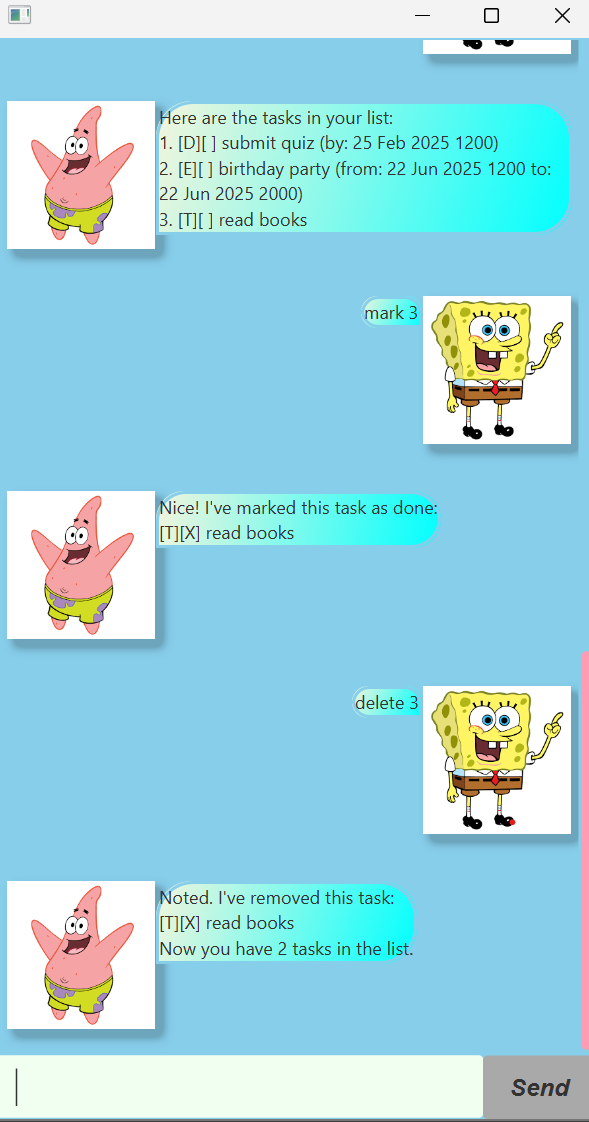
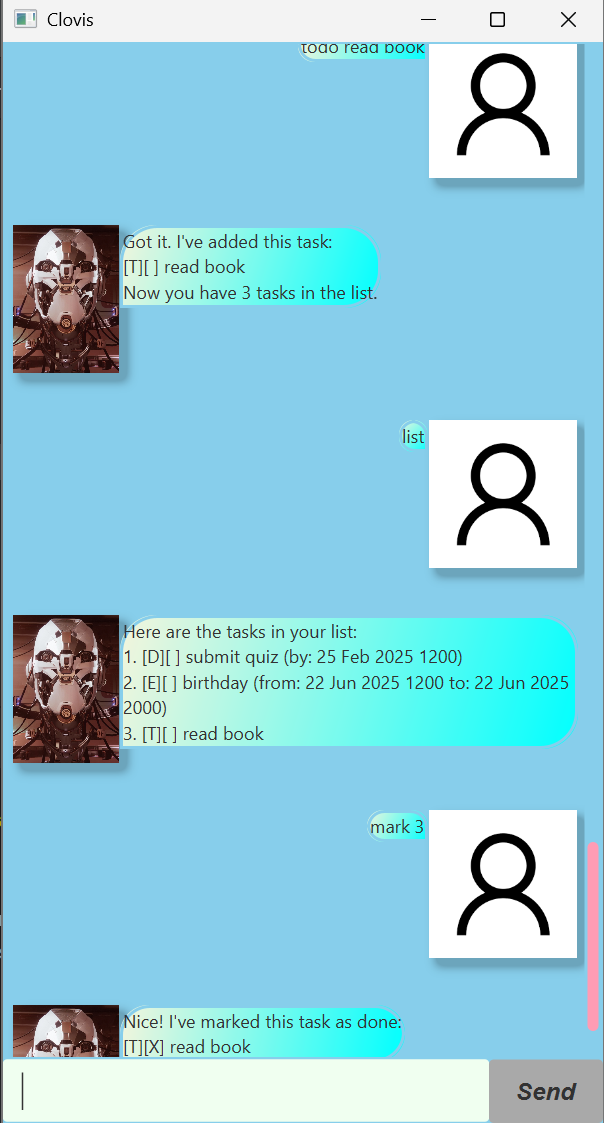
Add user guide, reupload Ui.png

diff --git a/src/main/java/clovis/gui/MainWindow.java b/src/main/java/clovis/gui/MainWindow.java
@@ -25,8 +25,8 @@ public class MainWindow extends AnchorPane {
 
     private Clovis clovis;
 
-    private Image userImage = new Image(this.getClass().getResourceAsStream("/images/patrick.png"));
-    private Image clovisImage = new Image(this.getClass().getResourceAsStream("/images/spongebob.png"));
+    private Image userImage = new Image(this.getClass().getResourceAsStream("/images/User.png"));
+    private Image clovisImage = new Image(this.getClass().getResourceAsStream("/images/ClovisBrayAI.png"));
 
     /**
      * Initializes the GUI and display the welcome message.

diff --git a/src/main/java/clovis/gui/Main.java b/src/main/java/clovis/gui/Main.java
@@ -22,9 +22,11 @@ public class Main extends Application {
             FXMLLoader fxmlLoader = new FXMLLoader(Main.class.getResource("/view/MainWindow.fxml"));
             AnchorPane ap = fxmlLoader.load();
             Scene scene = new Scene(ap);
+            stage.setTitle("Clovis");
             stage.setScene(scene);
             fxmlLoader.<MainWindow>getController().setClovis(clovis);
             stage.show();
+
         } catch (IOException e) {
             e.printStackTrace();
         }

diff --git a/src/main/java/clovis/task/Event.java b/src/main/java/clovis/task/Event.java
@@ -73,7 +73,7 @@ public class Event extends Task {
      *     description, start date and time, and end date and time.
      */
     public String toFileFormat() {
-        return "D | " + (isDone ? "1" : "0") + " | " + description + " | "
+        return "E | " + (isDone ? "1" : "0") + " | " + description + " | "
                 + start.format(OUTPUT_FORMAT) + " | " + end.format(OUTPUT_FORMAT);
     }
 

diff --git a/docs/README.md b/docs/README.md
@@ -1,30 +1,124 @@
-# Duke User Guide
-
-// Update the title above to match the actual product name
+# Clovis User Guide
 
 // Product screenshot goes here
 
-// Product intro goes here
+Clovis is a comprehensive chatbot designed to simplify task management,
+Whether you need to keep track of your daily tasks, meet important deadlines, or schedule events, Clovis has you covered. 
 
-## Adding deadlines
+With Clovis, you can add, delete, mark, and search for tasks efficiently using simple text commands.
+Yes, it uses a Command Line Interface (CLI) while still having benefits of a Graphical User Interface (GUI).
 
-// Describe the action and its outcome.
+## Adding Tasks
 
-// Give examples of usage
+There are 3 types of tasks: Todos, Deadlines, and Events.
 
-Example: `keyword (optional arguments)`
+### Adding a Todo: _todo_
 
-// A description of the expected outcome goes here
+Adds a todo with the specified description to your task list.
+
+Usage: `todo <description of task>`
 
 ```
-expected output
+Example input: todo Buy groceries
 ```
+```
+Expected output: Got it. I've added this task:
+                 [T][ ] Buy groceries
+                 Now you have 1 task in the list.
+```
+### Adding a Deadline: _deadline_
+Adds a deadline with the specified description and end date to the your task list.
 
-## Feature ABC
+Usage: `deadline <description of task> /by <date and time>`
+(Note that the input <ins>date and time</ins> have to be in the format of <ins>DD/MM/YYYY HHmm</ins>).
 
-// Feature details
+```
+Example input: deadline Submit report /by 10/10/2025 2359
+```
+```
+Expected output: Got it. I've added this task:
+                 [D][ ] Submit report (by: 10 Oct 2024, 23:59)
+                 Now you have 2 tasks in the list.
+```
+### Adding an Event: _event_
+Adds an event with the specified description, and start date to the end date to your task list.
 
+Usage: `event (description of task) /from (date and time) /to (date and time)`
+```
+Example input: event Team meeting /from 12/10/2024 1400 /to 12/10/2024 1600
+```
+```
+Expected output: Got it. I've added this task:
+                 [E][ ] Team meeting (from: 12 Oct 2024, 14:00 to: 16:00)
+                 Now you have 3 tasks in the list.
+```
+## Listing tasks: _list_
+Shows a list of all the tasks in your task list.
 
-## Feature XYZ
+Usage: list
+```
+Expected output: Here are the tasks in your list:
+                 1. [T][ ] Buy groceries
+                 2. [D][ ] Submit report (by: 10 Oct 2024, 23:59)
+                 3. [E][ ] Team meeting (from: 12 Oct 2024, 14:00 to: 16:00)
+```
+## Marking a task (completed): _mark_
+Mark the specified task in the task list as completed.
 
-// Feature details
+Usage: mark <index>
+```
+Example input: mark 2
+```
+```
+Expected output: Nice! I've marked this task as done:
+                 [D][X] Submit report (by: 10 Oct 2024, 23:59)
+```
+## Unmarking a task (uncompleted): _unmark_
+Unmark the specified task in the task list.
+
+Usage: unmark <index>
+```
+Example input: mark 2
+```
+```
+Expected output: OK, I've marked this task as not done yet:
+                 [D][ ] Submit report (by: 10 Oct 2024, 23:59)
+```
+## Deleting a task: _delete_
+Delete the specified task from the task list.
+
+Usage: delete <index>
+```
+Example input: delete 1
+```
+```
+Expected output: Noted. I've removed this task:
+                        [T][ ] Buy groceries
+                        Now you have 2 tasks in the list.
+```
+## Finding a task: _find_
+Finds a task that contains the specified keyword.
+
+Usage: find <keyword>
+```
+Example input: find report
+```
+```
+Expected output: Here are the matching tasks in your list:
+                 1. [D][ ] Submit report (by: 10 Oct 2024, 23:59)
+```
+## Exiting the application: _bye_
+Exits the application.
+
+Usage: bye
+## Other Features
+In addition to basic task management, Clovis includes other features that enhance user experience 
+by ensuring task uniqueness and preventing schedule conflicts.
+### Preventing Duplicates
+Clovis automatically detects and prevents duplicate tasks from being added to the list. 
+This ensures that your task list remains clean and free from redundancy.
+### Detecting Schedule Conflicts
+Clovis also helps you avoid scheduling conflicts by preventing overlapping deadlines and events. 
+This ensures that tasks with time constraints do not clash with existing ones.
+
+## With Clovis, your tasks stay organized!
